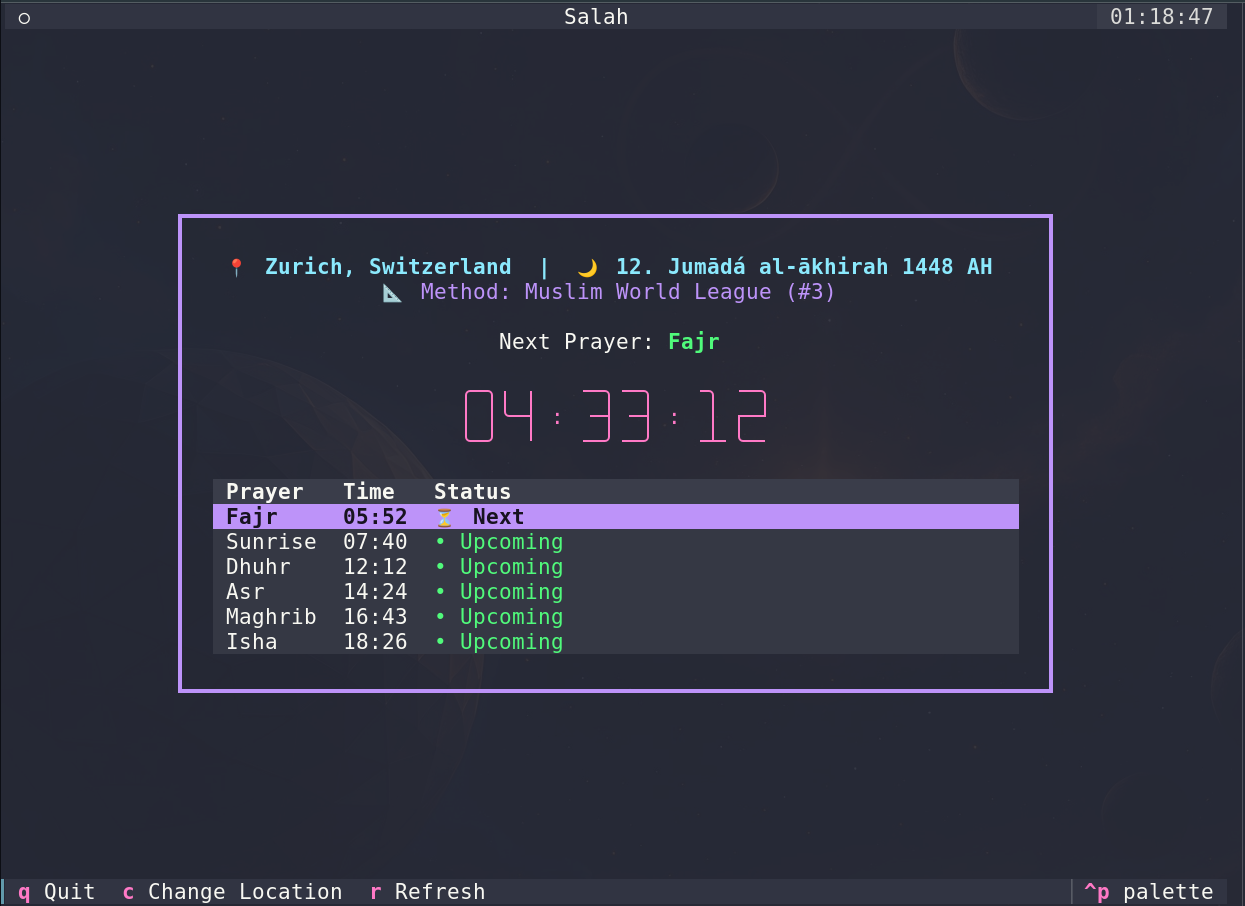
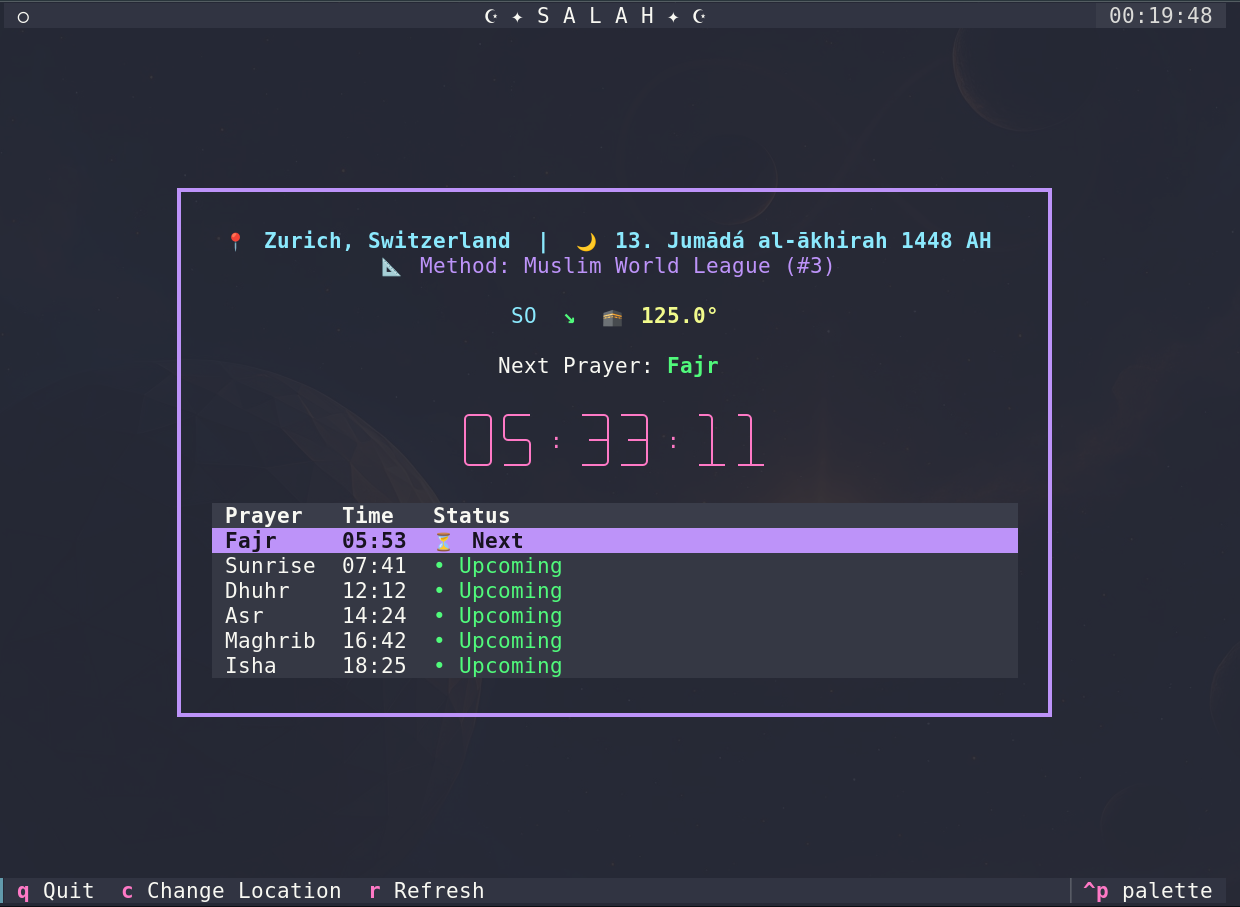
Add files via upload

diff --git a/salah_tui.py b/salah_tui.py
@@ -1,4 +1,6 @@
+import math
 from datetime import datetime, timedelta
+
 import httpx
 from textual.app import App, ComposeResult
 from textual.containers import Vertical, Horizontal
@@ -6,6 +8,10 @@ from textual.screen import ModalScreen
 from textual.widgets import Button, DataTable, Digits, Footer, Header, Input, Label, Select, Static
 
 BASE_URL = "https://api.aladhan.com/v1"
+GEO_URL = "https://geocoding-api.open-meteo.com/v1/search"
+
+KAABA_LAT = 21.4225
+KAABA_LON = 39.8262
 
 METHODS: dict[int, str] = {
     3: "Muslim World League (3)",
@@ -17,6 +23,67 @@ METHODS: dict[int, str] = {
     12: "Union Organization Islamic de France (12)",
     15: "Moonsighting Committee Worldwide (15)",
 }
+
+COMPASS_NAMES = ["N", "NO", "O", "SO", "S", "SW", "W", "NW"]
+ROSE_ARROWS = ["↑", "↗", "→", "↘", "↓", "↙", "←", "↖"]
+
+
+def geocode(city: str, country: str) -> tuple[float, float] | None:
+    """Koordinaten einer Stadt über Open-Meteo holen. Bevorzugt das passende Land."""
+    response = httpx.get(
+        GEO_URL,
+        params={"name": city, "count": 10, "language": "en", "format": "json"},
+        timeout=10.0,
+    )
+    response.raise_for_status()
+    results = response.json().get("results") or []
+    if not results:
+        return None
+
+    country_l = country.lower()
+    for res in results:
+        if res.get("country", "").lower() == country_l or res.get("country_code", "").lower() == country_l:
+            return res["latitude"], res["longitude"]
+    return results[0]["latitude"], results[0]["longitude"]
+
+
+def qibla_direction(lat: float, lon: float) -> float:
+    """Azimut zur Kaaba in Grad (0 = Nord, im Uhrzeigersinn)."""
+    phi1 = math.radians(lat)
+    phi2 = math.radians(KAABA_LAT)
+    dlon = math.radians(KAABA_LON - lon)
+    x = math.sin(dlon)
+    y = math.cos(phi1) * math.tan(phi2) - math.sin(phi1) * math.cos(dlon)
+    return math.degrees(math.atan2(x, y)) % 360
+
+
+def compass_name(deg: float) -> str:
+    return COMPASS_NAMES[round(deg / 45) % 8]
+
+
+def qibla_rose(deg: float) -> str:
+    """Große Kompassrose mit Pfeil in Qibla-Richtung und gelber Gradangabe."""
+    arrow = ROSE_ARROWS[round(deg / 45) % 8]
+    return (
+        "[b #ff5555]N[/]\n"
+        "[#8be9fd]NW[/]       [#8be9fd]NO[/]\n"
+        f"[#8be9fd]W[/]       [b #50fa7b]{arrow}[/]       [#8be9fd]O[/]\n"
+        "[#8be9fd]SW[/]       [#8be9fd]SO[/]\n"
+        "[#8be9fd]S[/]\n"
+        "\n"
+        f"[b #f1fa8c]🕋 {deg:.1f}° {compass_name(deg)}[/]"
+    )
+
+
+def qibla_line(deg: float) -> str:
+    """Einzeilige Qibla-Anzeige: Richtung, Pfeil und Gradzahl."""
+    arrow = ROSE_ARROWS[round(deg / 45) % 8]
+    name = compass_name(deg)
+    colored_name = "".join(
+        f"[b #ff5555]{c}[/]" if c == "N" else f"[#8be9fd]{c}[/]"
+        for c in name
+    )
+    return f"{colored_name}  [b #50fa7b]{arrow}[/]  [b #f1fa8c]🕋 {deg:.1f}°[/]"
 
 
 class CityModal(ModalScreen[tuple[str, str, int] | None]):
@@ -88,6 +155,8 @@ class CityModal(ModalScreen[tuple[str, str, int] | None]):
 class Salah(App):
     """TUI for Islamic prayer times in Dracula theme."""
 
+    TITLE = "☪ ✦ S A L A H ✦ ☪"
+
     CSS = """
     Screen {
         align: center middle;
@@ -109,6 +178,11 @@ class Salah(App):
     #method-info {
         text-align: center;
         color: #bd93f9;
+        margin-bottom: 1;
+    }
+
+    #qibla-rose {
+        text-align: center;
         margin-bottom: 1;
     }
 
@@ -143,12 +217,15 @@ class Salah(App):
         self.method_name: str = ""
         self.prayer_times: dict[str, datetime] = {}
         self.hijri_date: str = ""
+        self.qibla: float | None = None
+        self.coords_cache: dict[tuple[str, str], tuple[float, float]] = {}
 
     def compose(self) -> ComposeResult:
         yield Header(show_clock=True)
         with Vertical(id="main-box"):
             yield Static("Loading prayer times...", id="location-info")
             yield Static("", id="method-info")
+            yield Static("", id="qibla-rose")
             yield Static("", id="next-prayer-label")
             yield Digits("00:00:00", id="countdown")
             yield DataTable(id="times-table", cursor_type="row")
@@ -171,6 +248,24 @@ class Salah(App):
                 self.fetch_prayer_times()
 
         self.push_screen(CityModal(self.city, self.country, self.method), handle_city_result)
+
+    def get_coords(self) -> tuple[float, float] | None:
+        """Koordinaten der aktuellen Stadt, mit Cache pro Stadt und Land."""
+        key = (self.city.lower(), self.country.lower())
+        if key not in self.coords_cache:
+            coords = geocode(self.city, self.country)
+            if coords is None:
+                return None
+            self.coords_cache[key] = coords
+        return self.coords_cache[key]
+
+    def update_qibla_for_city(self) -> None:
+        try:
+            coords = self.get_coords()
+            self.qibla = qibla_direction(*coords) if coords else None
+        except Exception:
+            self.qibla = None
+        self.update_qibla()
 
     def fetch_prayer_times(self) -> None:
         today_str = datetime.now().strftime("%d-%m-%Y")
@@ -214,10 +309,17 @@ class Salah(App):
             self.query_one("#method-info", Static).update(
                 f"📐 Method: {self.method_name} (#{self.method})"
             )
+            self.update_qibla_for_city()
             self.update_countdown()
 
         except Exception as e:
             self.query_one("#location-info", Static).update(f"[b #ff5555]Error loading times:[/] {e}")
+
+    def update_qibla(self) -> None:
+        if self.qibla is None:
+            self.query_one("#qibla-rose", Static).update("")
+            return
+        self.query_one("#qibla-rose", Static).update(qibla_line(self.qibla))
 
     def update_countdown(self) -> None:
         if not self.prayer_times:

diff --git a/README.md b/README.md
@@ -1,3 +1,4 @@
+````markdown
 # 🕌 Salah
 
 A sleek terminal user interface (TUI) for Islamic prayer times built with [Textual](https://textualize.io) and styled in the **Dracula** theme.
@@ -8,6 +9,7 @@ A sleek terminal user interface (TUI) for Islamic prayer times built with [Textu
 
 - **Live Countdown** to the next upcoming prayer
 - **Color-Coded Status** (`Gold` for passed prayers, `Green` for next & upcoming prayers)
+- **Qibla Direction** shown as a compass rose with the bearing in degrees
 - **Hijri & Gregorian Date** display
 - **Interactive Settings Modal** to switch city, country, and calculation method on the fly
 - **Calculation Method Indicator** showing the active method fetched from the [AlAdhan API](https://aladhan.com)
@@ -36,6 +38,24 @@ salah
 | `r` | Refresh prayer times |
 | `q` | Quit the application |
 
+## 🕋 Qibla Direction
+
+The Qibla is the direction from your location to the Kaaba in Makkah. Salah shows it as a compass rose between the calculation method and the next prayer. The arrow points in the Qibla direction, and the line below shows the compass point and the exact bearing in degrees.
+
+### How It Is Calculated
+
+- **Coordinates:** The city and country are geocoded with the [Open-Meteo Geocoding API](https://open-meteo.com/en/docs/geocoding-api). Results are cached per city for the current session.
+- **Bearing:** The initial great-circle bearing from your coordinates to the Kaaba (21.4225° N, 39.8262° E) is computed with spherical trigonometry. The result is measured in degrees clockwise from true north (0° = N, 90° = E, 180° = S, 270° = W).
+- **Independence:** The Qibla is calculated locally and does not depend on the selected calculation method for prayer times.
+
+### ⚠ Notes and Limitations
+
+- **City-level accuracy:** The bearing is computed from the city centre, not your exact position. For distant cities, the difference to your actual location is usually small, but it can be a degree or more in some cases.
+- **True north, not magnetic north:** The bearing refers to geographic north. A magnetic compass shows a different value, depending on your location and the current magnetic declination. Use a compass app or a map with a correction if you need the magnetic bearing.
+- **Ambiguous city names:** The geocoder prefers the country you entered, but common city names can still match the wrong place. Check the displayed location and the Qibla value if something looks wrong. You can verify the result with the [AlAdhan Qibla endpoint](https://aladhan.com/qibla-api) by passing the coordinates.
+- **Internet required:** Prayer times and the first Qibla lookup for a city need an internet connection. Cached cities are available for the rest of the session.
+- **Not verified in the field:** The calculation has been checked against reference values, but it has not been tested on site. For prayer, rely on local mosques and authorities where possible.
+
 ## ⚙ Supported Calculation Methods
 
 - **3** – Muslim World League *(default)*
@@ -50,3 +70,6 @@ salah
 ## 📄 License
 
 GNU General Public License (GPLv3)
+````
+
+Die wichtigsten Warnungen stehen im Abschnitt „Notes and Limitations“. Falls du die Qibla genauer angeben willst, etwa mit der tatsächlichen Position per GPS, lässt sich das später ergänzen.
